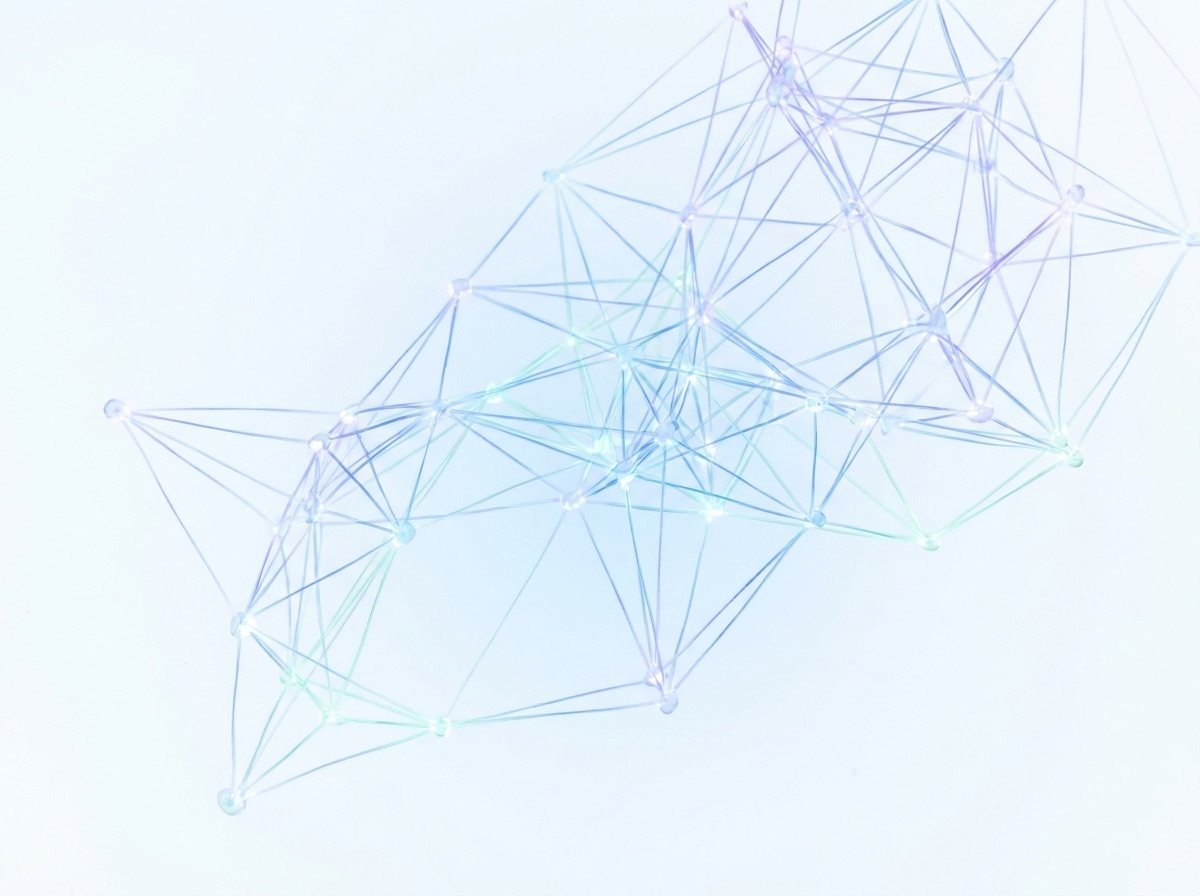
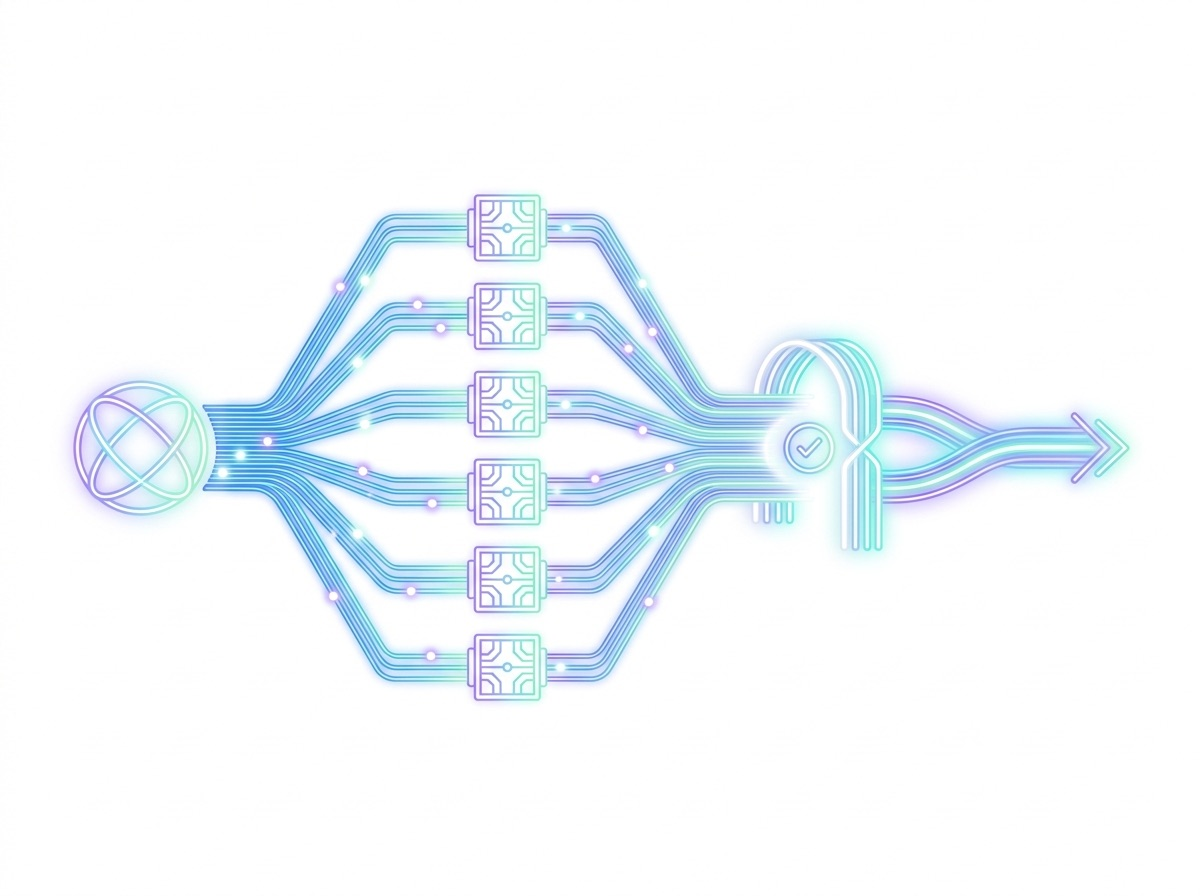
brand: CI 확정 반영 — EL 타일 SVG 로고·파비콘, 하네스 엔지니어링 이미지
- 헤더 로고를 벡터 SVG(오로라 타일 + EL)로 교체, favicon/apple-touch-icon 추가
- '연구소가 일하는 방식' 이미지를 하네스 엔지니어링 비주얼로 교체
  (병렬 에이전트 모듈 → 검증 게이트 → 단일 릴리스)

Changed region(s): [[0.0617, 0.0, 1.0, 0.9062], [0.1542, 0.5938, 0.185, 0.6562]]

diff --git a/index.html b/index.html
@@ -11,6 +11,9 @@
 <meta property="og:description" content="20년의 엔지니어링 경험 위에 AI 네이티브 개발 방식을 더한 소프트웨어 연구소.">
 <meta property="og:image" content="https://elsoftlab.com/assets/hero.jpg">
 <meta property="og:type" content="website">
+<link rel="icon" href="assets/logo.svg" type="image/svg+xml">
+<link rel="icon" href="assets/favicon-32.png" type="image/png" sizes="32x32">
+<link rel="apple-touch-icon" href="assets/apple-touch-icon.png">
 <script>if('IntersectionObserver' in window)document.documentElement.classList.add('js')</script><!-- 리빌 숨김은 복원 수단(IO)이 있을 때만 -->
 <style>
   :root{
@@ -49,11 +52,7 @@
   }
   .nav{display:flex; align-items:center; justify-content:space-between; padding:14px 0}
   .brand{display:flex; align-items:center; gap:11px; font-weight:800; font-size:18px; letter-spacing:-.02em}
-  .logo{
-    width:34px; height:34px; border-radius:10px; background:var(--aurora);
-    display:grid; place-items:center; color:#fff; font-weight:800; font-size:14px;
-    font-family:var(--mono); letter-spacing:0;
-  }
+  .logo{width:34px; height:34px; display:block}
   .brand small{color:var(--muted); font-weight:600; font-size:13px}
   nav.menu{display:flex; gap:26px; font-size:14.5px; font-weight:600; color:var(--muted)}
   nav.menu a:hover{color:var(--ink)}
@@ -61,7 +60,7 @@
     nav.menu{gap:13px; font-size:13px}
     .brand{font-size:16px; gap:8px}
     .brand small{display:none}
-    .logo{width:30px; height:30px; font-size:12.5px}
+    .logo{width:30px; height:30px}
   }
 
   /* ── 히어로 ── */
@@ -216,7 +215,7 @@
 
 <header>
   <div class="wrap nav">
-    <a class="brand" href="#top"><span class="logo">EL</span> 이엘소프트 <small>ELSoft</small></a>
+    <a class="brand" href="#top"><svg class="logo" viewBox="0 0 512 512" aria-hidden="true"><defs><linearGradient id="lg" x1="0" y1="0" x2="1" y2="1"><stop offset="0" stop-color="#7C5CFF"/><stop offset=".55" stop-color="#23B8DE"/><stop offset="1" stop-color="#3BCF9A"/></linearGradient></defs><rect width="512" height="512" rx="115" fill="url(#lg)"/><g fill="#fff"><path d="M111 144h130v44H155v46h74v44h-74v46h86v44H111z"/><path d="M281 144h44v180h76v44H281z"/></g></svg> 이엘소프트 <small>ELSoft</small></a>
     <nav class="menu" aria-label="주요 메뉴">
       <a href="#capabilities">역량</a>
       <a href="#method">방식</a>
@@ -313,7 +312,7 @@
           </div>
         </div>
         <div class="method-art reveal">
-          <img src="assets/method.jpg" alt="AI 에이전트 오케스트레이션을 형상화한 밝은 추상 이미지 — 빛의 노드와 연결선" loading="lazy" width="1200" height="896">
+          <img src="assets/method.jpg" alt="하네스 엔지니어링을 형상화한 이미지 — 허브에서 갈라진 전선 다발이 병렬 에이전트 모듈을 지나 검증 게이트를 통과해 하나의 릴리스로 수렴" loading="lazy" width="1200" height="896">
         </div>
       </div>
     </div>
